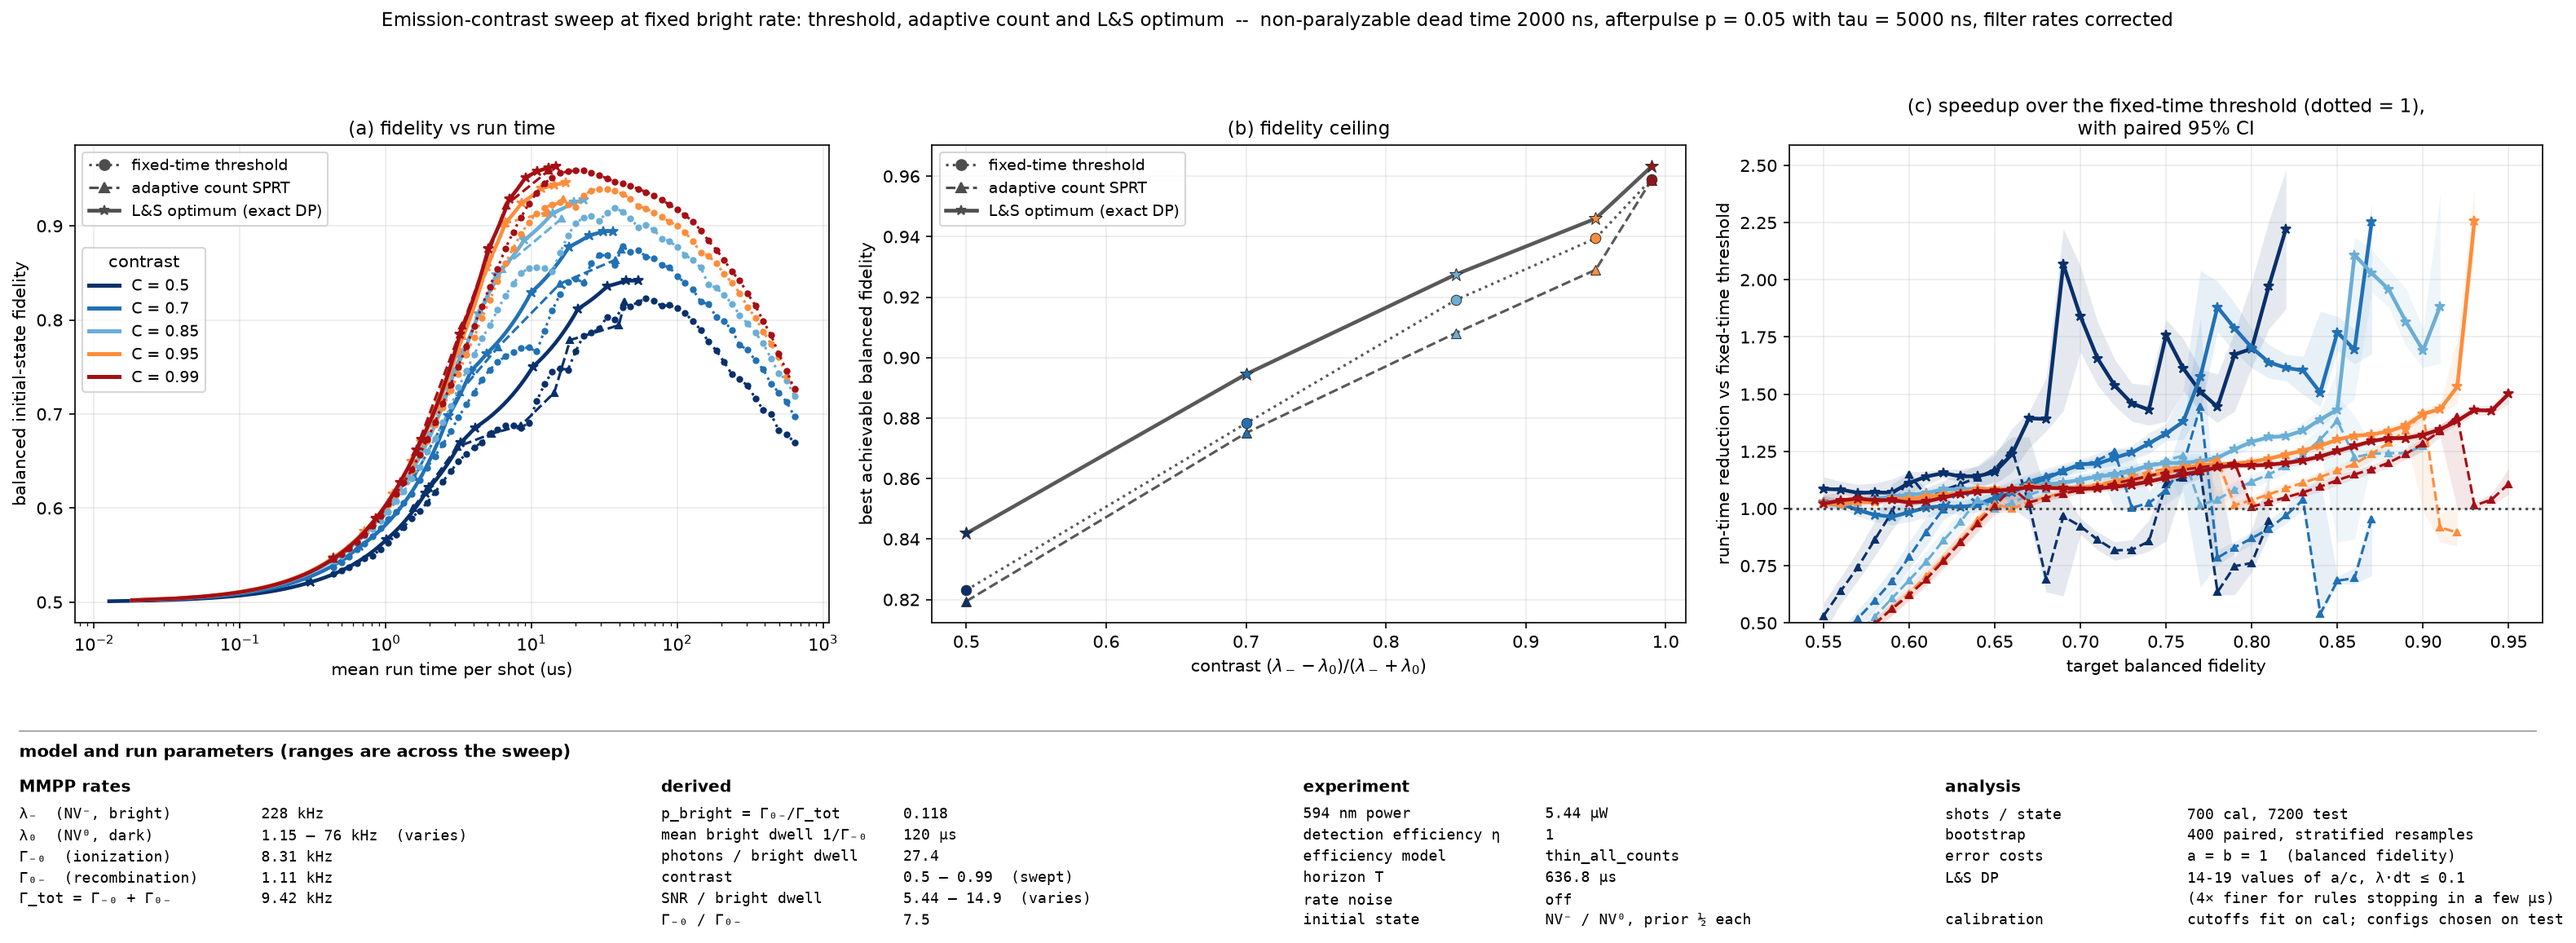
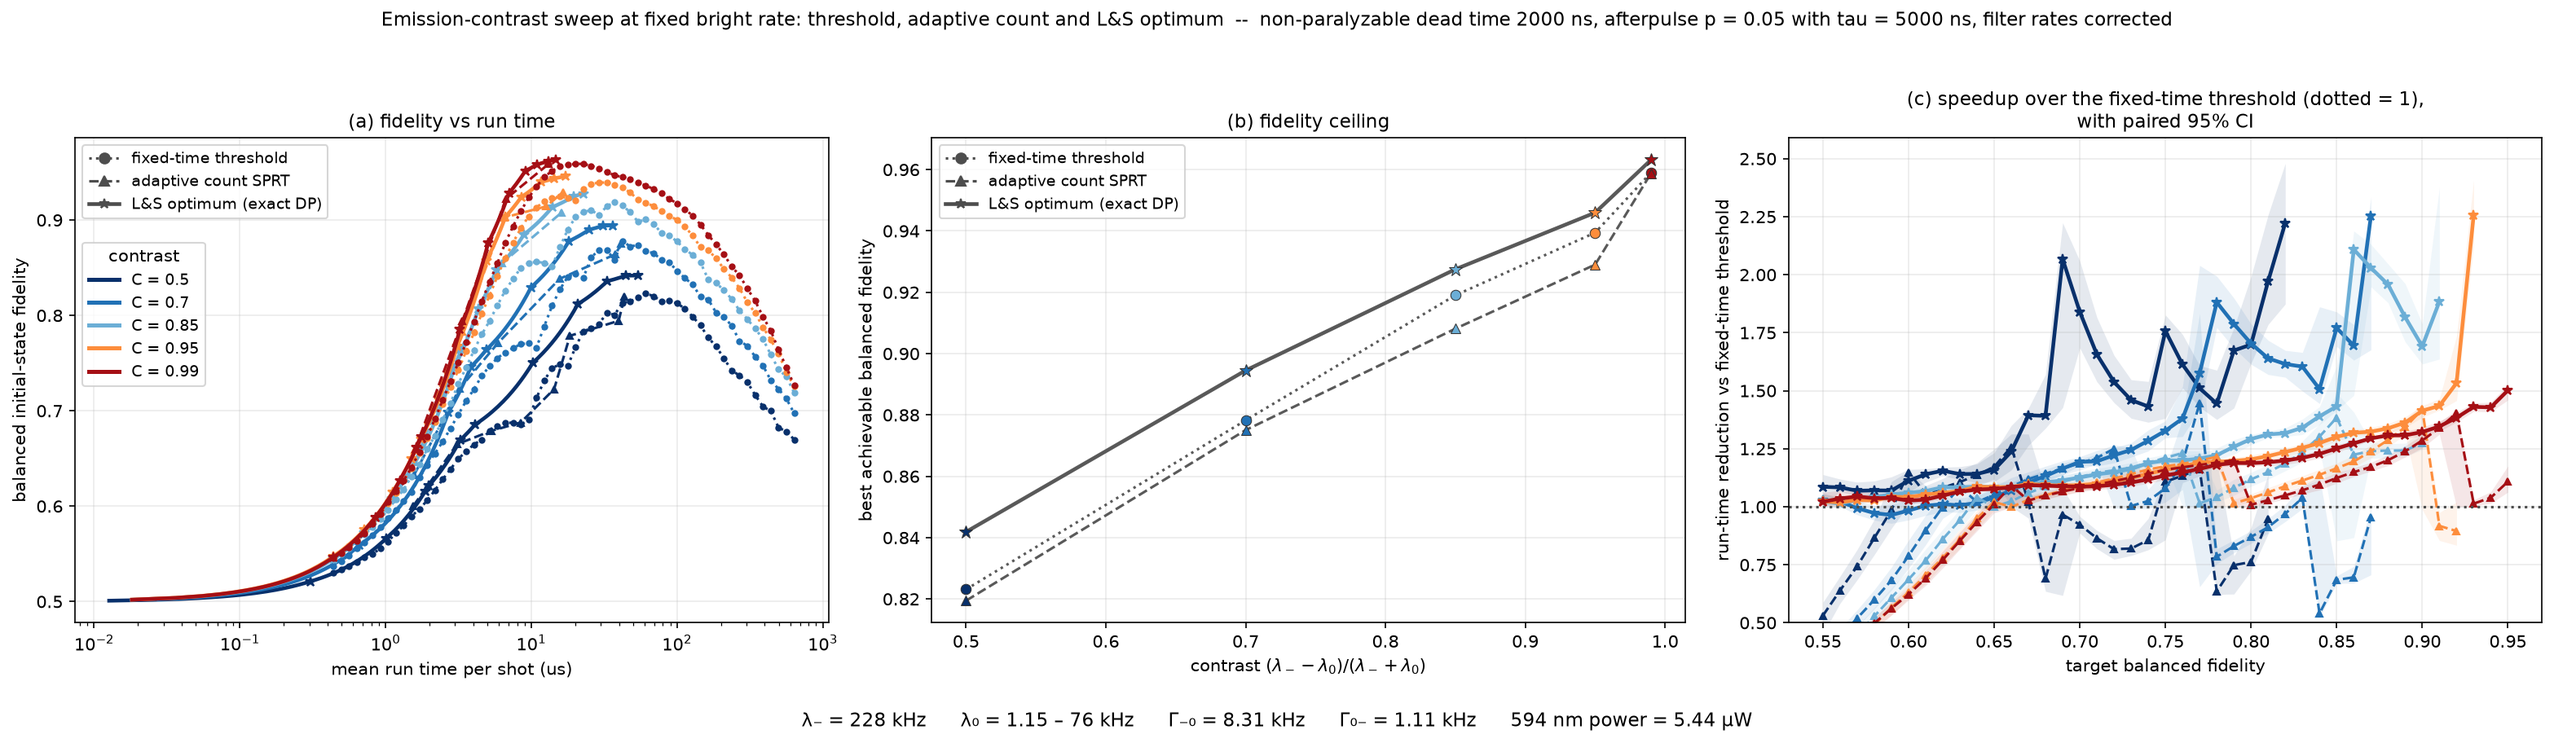
Three-method figures: show only the rates and laser power
Replace the four-column parameter panel with one line under the plots:
lambda_-, lambda_0, Gamma_-0, Gamma_0- and the 594 nm power, each a single
value or the range it spans across the sweep.

Claude-Session: https://claude.ai/code/session_01QPNqKJ2d1r7hY2FSJML7Zq

diff --git a/adaptive_charge_state_master.py b/adaptive_charge_state_master.py
@@ -4868,79 +4868,28 @@ _THREE_WAY_METHODS = (
 )
 
 
-def _parameter_columns(results: list[dict], spec: SweepSpec) -> list[tuple[str, list[str]]]:
+def _rates_and_power_text(results: list[dict]) -> str:
     """
-    The model and run parameters behind a sweep, for printing under a figure:
-    one value where the sweep holds it fixed, the range where it does not.
+    The four MMPP rates and the laser power behind a sweep, on one line: one
+    value where the sweep holds it fixed, the range where it moves.
     """
-    def fmt(vals, unit="", digits=3):
+    def fmt(vals, unit):
         v = np.asarray([x for x in vals if x is not None], dtype=float)
         if v.size == 0:
             return "n/a"
         lo, hi = float(v.min()), float(v.max())
-        u = f" {unit}" if unit else ""
         if abs(hi - lo) <= 1e-9 * max(abs(hi), 1e-300):
-            return f"{lo:.{digits}g}{u}"
-        return f"{lo:.{digits}g} – {hi:.{digits}g}{u}  (varies)"
+            return f"{lo:.3g} {unit}"
+        return f"{lo:.3g} – {hi:.3g} {unit}"
 
     P = [r["params"] for r in results]
-    R = [r["regime"] for r in results]
-    rates = [
-        ("λ₋  (NV⁻, bright)", fmt([p.lambda_minus_khz for p in P], "kHz")),
-        ("λ₀  (NV⁰, dark)", fmt([p.lambda_zero_khz for p in P], "kHz")),
-        ("Γ₋₀  (ionization)", fmt([p.gamma_minus_to_zero_khz for p in P], "kHz")),
-        ("Γ₀₋  (recombination)", fmt([p.gamma_zero_to_minus_khz for p in P], "kHz")),
-        ("Γ_tot = Γ₋₀ + Γ₀₋", fmt([q["gamma_tot_khz"] for q in R], "kHz")),
-    ]
-    derived = [
-        ("p_bright = Γ₀₋/Γ_tot", fmt([q["p_bright_stationary"] for q in R])),
-        ("mean bright dwell 1/Γ₋₀", fmt([q["mean_bright_dwell_us"] for q in R], "µs")),
-        ("photons / bright dwell", fmt([q["photons_per_bright_dwell"] for q in R])),
-        ("contrast", fmt([q["contrast"] for q in R])),
-        ("SNR / bright dwell", fmt([q["snr_per_bright_dwell"] for q in R])),
-        ("Γ₋₀ / Γ₀₋", fmt([q["switching_ratio"] for q in R])),
-    ]
-    noise = [r.get("noise") for r in results]
-    noise_txt = (
-        "off" if all(n is None or getattr(n, "is_off", True) for n in noise)
-        else noise[0].describe()
-    )
-    experiment = [
-        ("594 nm power", fmt([r.get("power_uw") for r in results], "µW")),
-        ("detection efficiency η", fmt([r.get("detection_efficiency") for r in results])),
-        ("efficiency model", str(results[0].get("efficiency_model", "n/a"))),
-        ("horizon T", fmt([r["horizon_us"] for r in results], "µs", 4)),
-        ("rate noise", noise_txt),
-        ("initial state", "NV⁻ / NV⁰, prior ½ each"),
-    ]
-    n_opt = [len(r["optimal_a_over_c"]) for r in results if r.get("optimal_a_over_c") is not None]
-    analysis = [
-        ("shots / state", f"{results[0]['n_cal_per_state']} cal, "
-                          f"{results[0]['n_test_per_state']} test"),
-        ("bootstrap", f"{results[0]['n_boot']} paired, stratified resamples"),
-        ("error costs", "a = b = 1  (balanced fidelity)"),
-        ("L&S DP", (f"{min(n_opt)}" if min(n_opt) == max(n_opt) else f"{min(n_opt)}-{max(n_opt)}")
-                   + " values of a/c, λ·dt ≤ 0.1" if n_opt else "not computed"),
-        ("", "(4× finer for rules stopping in a few µs)"),
-        ("calibration", "cutoffs fit on cal; configs chosen on test"),
-    ]
-    # Mark the swept quantity, which the x axis / colour already carries.
-    swept = {
-        "snr": "SNR / bright dwell", "ratio": "Γ₋₀ / Γ₀₋",
-        "contrast": "contrast", "power": "594 nm power",
-        "efficiency": "detection efficiency η",
-    }.get(spec.key)
-    cols = [("MMPP rates", rates), ("derived", derived),
-            ("experiment", experiment), ("analysis", analysis)]
-    out = []
-    for title, rows in cols:
-        lines = []
-        for k, v in rows:
-            if k and k == swept:
-                v = v.replace("(varies)", "(swept)")
-            lines.append(f"{k:<26} {v}" if k else f"{'':<26} {v}")
-        out.append((title, lines))
-    return out
+    return "      ".join([
+        f"λ₋ = {fmt([p.lambda_minus_khz for p in P], 'kHz')}",
+        f"λ₀ = {fmt([p.lambda_zero_khz for p in P], 'kHz')}",
+        f"Γ₋₀ = {fmt([p.gamma_minus_to_zero_khz for p in P], 'kHz')}",
+        f"Γ₀₋ = {fmt([p.gamma_zero_to_minus_khz for p in P], 'kHz')}",
+        f"594 nm power = {fmt([r.get('power_uw') for r in results], 'µW')}",
+    ])
 
 
 def plot_three_way(
@@ -4960,7 +4909,7 @@ def plot_three_way(
     plt = _pyplot()
     from matplotlib.lines import Line2D
 
-    fig, axes = plt.subplots(1, 3, figsize=(21.0, 7.9))
+    fig, axes = plt.subplots(1, 3, figsize=(21.0, 6.1))
     (lab_t, ls_t, mk_t, lw_t), (lab_c, ls_c, mk_c, lw_c), (lab_o, ls_o, mk_o, lw_o) = (
         _THREE_WAY_METHODS
     )
@@ -5053,18 +5002,10 @@ def plot_three_way(
         f"{spec.title}: threshold, adaptive count and L&S optimum  --  "
         f"{det.describe()}", fontsize=11,
     )
-    fig.tight_layout(rect=(0, 0.27, 1, 0.95))
-
-    # Everything the plots do not show: the fixed model and run parameters.
-    fig.add_artist(Line2D([0.01, 0.99], [0.235, 0.235], color="0.6", lw=0.8,
-                          transform=fig.transFigure))
-    fig.text(0.01, 0.222, "model and run parameters (ranges are across the sweep)",
-             fontsize=10, weight="bold", va="top")
-    for k, (title, lines) in enumerate(_parameter_columns(results, spec)):
-        x0 = 0.01 + 0.25 * k
-        fig.text(x0, 0.185, title, fontsize=9.5, weight="bold", va="top")
-        fig.text(x0, 0.160, "\n".join(lines), fontsize=8.6, va="top",
-                 family="monospace", linespacing=1.45)
+    fig.tight_layout(rect=(0, 0.06, 1, 0.95))
+    # The rates and power the plots do not show (ranges are across the sweep).
+    fig.text(0.5, 0.015, _rates_and_power_text(results), ha="center",
+             va="bottom", fontsize=11)
     if save_path:
         fig.savefig(save_path, dpi=150, bbox_inches="tight")
     return fig
